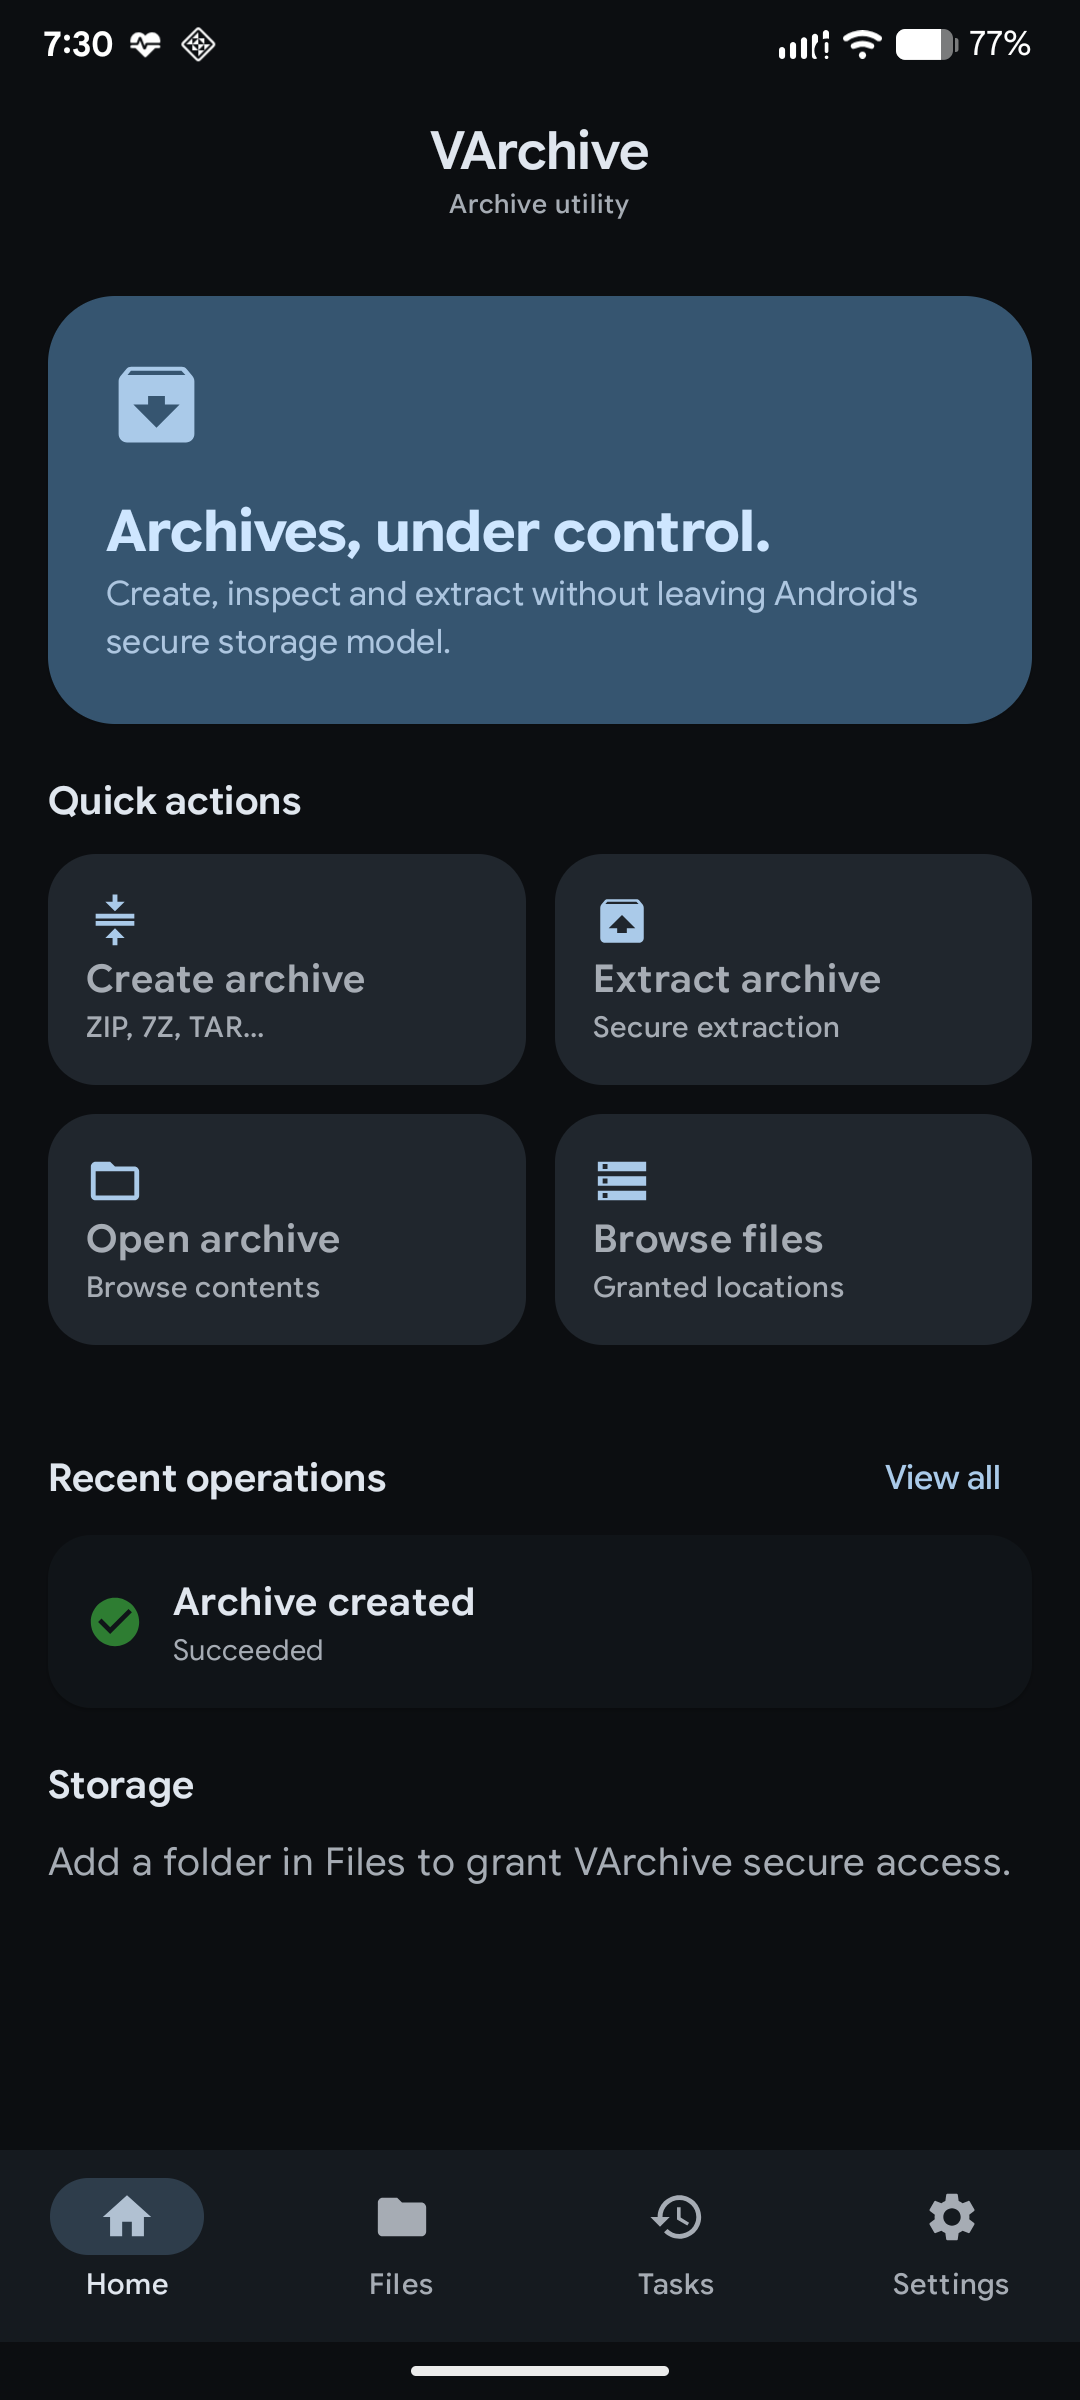
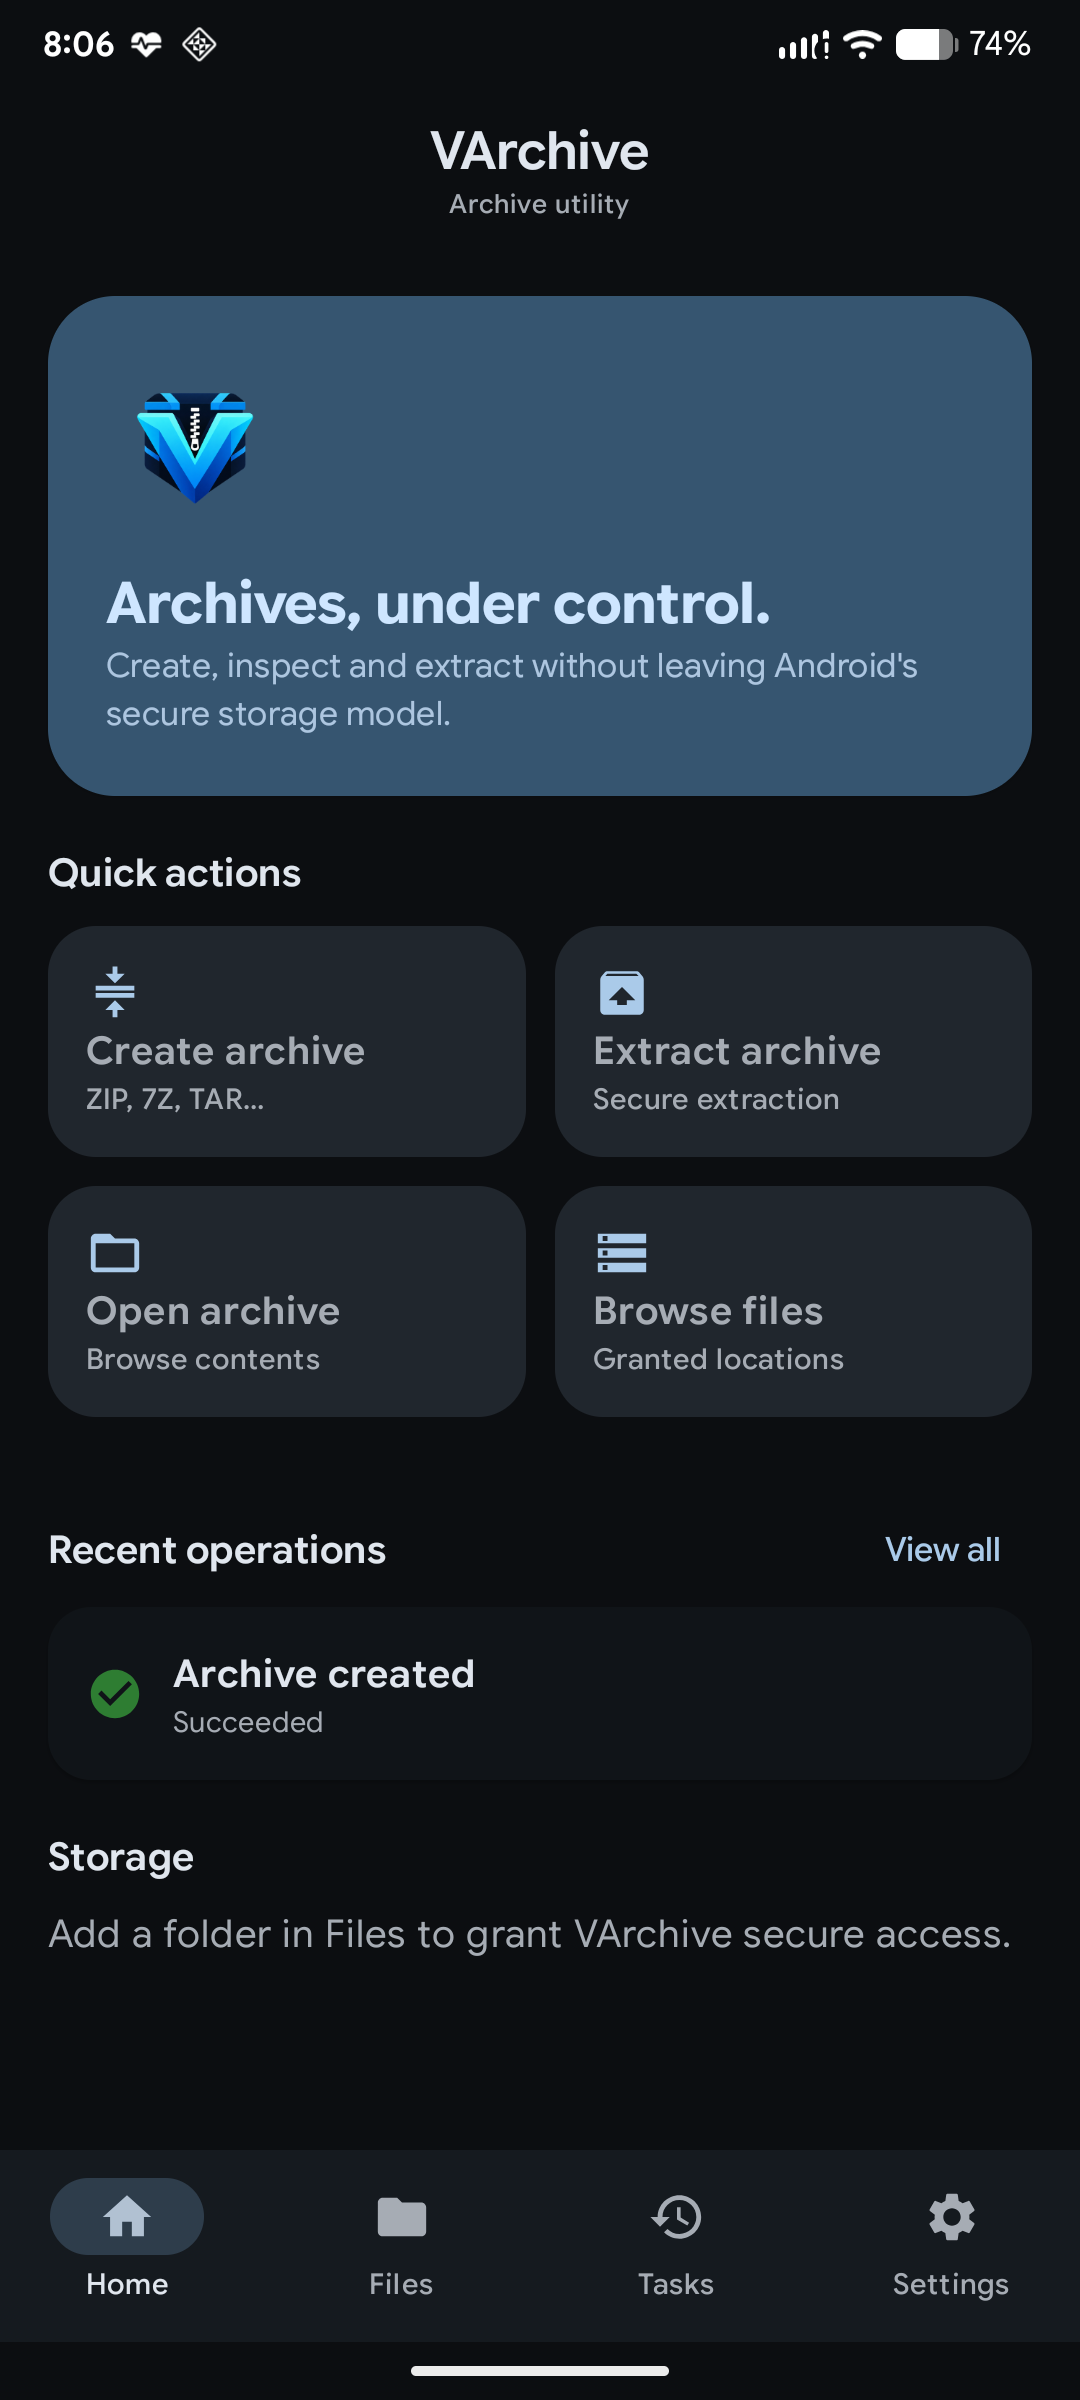
Release VArchive v1.0.1 Stable branding

diff --git a/app/src/main/java/com/vikas/varchive/ui/VArchiveRoot.kt b/app/src/main/java/com/vikas/varchive/ui/VArchiveRoot.kt
@@ -10,6 +10,7 @@ import androidx.activity.compose.BackHandler
 import androidx.activity.compose.rememberLauncherForActivityResult
 import androidx.activity.result.contract.ActivityResultContracts
 import androidx.compose.animation.AnimatedContent
+import androidx.compose.foundation.Image
 import androidx.compose.foundation.ExperimentalFoundationApi
 import androidx.compose.foundation.background
 import androidx.compose.foundation.combinedClickable
@@ -120,6 +121,7 @@ import androidx.compose.ui.Modifier
 import androidx.compose.ui.graphics.Color
 import androidx.compose.ui.graphics.vector.ImageVector
 import androidx.compose.ui.platform.LocalContext
+import androidx.compose.ui.res.painterResource
 import androidx.compose.ui.semantics.contentDescription
 import androidx.compose.ui.semantics.semantics
 import androidx.compose.ui.text.font.FontWeight
@@ -131,6 +133,7 @@ import androidx.compose.ui.unit.dp
 import androidx.lifecycle.compose.collectAsStateWithLifecycle
 import androidx.work.WorkInfo
 import com.vikas.varchive.BuildConfig
+import com.vikas.varchive.R
 import com.vikas.varchive.archive.ArchiveEntry
 import com.vikas.varchive.archive.ArchiveFormat
 import com.vikas.varchive.archive.CompressionLevel
@@ -378,8 +381,12 @@ private fun HomeScreen(
                 shape = RoundedCornerShape(28.dp),
             ) {
                 Column(Modifier.padding(24.dp)) {
-                    Icon(Icons.Default.Archive, null, Modifier.size(42.dp), tint = MaterialTheme.colorScheme.primary)
-                    Spacer(Modifier.height(16.dp))
+                    Image(
+                        painter = painterResource(R.drawable.varchive_logo_display),
+                        contentDescription = "VArchive logo",
+                        modifier = Modifier.size(78.dp),
+                    )
+                    Spacer(Modifier.height(10.dp))
                     Text("Archives, under control.", style = MaterialTheme.typography.headlineSmall, fontWeight = FontWeight.Bold)
                     Text("Create, inspect and extract without leaving Android's secure storage model.", style = MaterialTheme.typography.bodyMedium, color = MaterialTheme.colorScheme.onPrimaryContainer.copy(alpha = .78f))
                 }
@@ -654,7 +661,13 @@ private fun SimpleSetting(title: String, subtitle: String, icon: ImageVector, on
 private fun AboutDialog(onDismiss: () -> Unit) {
     AlertDialog(
         onDismissRequest = onDismiss,
-        icon = { Icon(Icons.Default.Archive, null, Modifier.size(44.dp), tint = MaterialTheme.colorScheme.primary) },
+        icon = {
+            Image(
+                painter = painterResource(R.drawable.varchive_logo_display),
+                contentDescription = "VArchive logo",
+                modifier = Modifier.size(104.dp),
+            )
+        },
         title = { Text("VArchive") },
         text = {
             Column(horizontalAlignment = Alignment.CenterHorizontally, verticalArrangement = Arrangement.spacedBy(8.dp)) {
@@ -708,7 +721,7 @@ private fun LicensesDialog(onDismiss: () -> Unit) {
                 item { LicenseItem("XZ for Java 1.12", "0BSD") }
                 item { LicenseItem("zstd-jni 1.5.7-12", "BSD 2-Clause; bundled Zstandard is BSD 3-Clause or GPL-2.0") }
                 item { LicenseItem("Junrar 8.1.1", "UnRAR License; extraction only, RAR creation is prohibited and not implemented") }
-                item { Text("Full integration and limitation details are included in ARCHIVE_ENGINE.md.", style = MaterialTheme.typography.bodySmall, color = MaterialTheme.colorScheme.onSurfaceVariant) }
+                item { Text("Full engine and license details are included in ARCHIVE_ENGINE.md.", style = MaterialTheme.typography.bodySmall, color = MaterialTheme.colorScheme.onSurfaceVariant) }
             }
         },
         confirmButton = { TextButton(onClick = onDismiss) { Text("Done") } },

diff --git a/README.md b/README.md
@@ -1,5 +1,7 @@
 <div align="center">
 
+<img src="docs/images/varchive-logo.png" alt="VArchive logo" width="170" />
+
 # VArchive
 
 ### A modern, secure and powerful archive manager for Android.
@@ -37,7 +39,7 @@ VArchive brings browsing, creation, extraction, and integrity testing into one f
   <img src="docs/images/settings.png" alt="VArchive settings screen" width="30%" />
 </p>
 
-Screenshots are captured from the real v1.0.0 application on Android 16 using neutral test data.
+Screenshots are captured from the real v1.0.1 application on Android 16 using neutral test data.
 
 ## Supported formats
 
@@ -107,7 +109,7 @@ Download the latest installable APK from [GitHub Releases](https://github.com/vi
 - Current packaged ABI: **arm64-v8a**
 - Package name: **`com.vikas.varchive`**
 
-The v1.0.0 release APK is signed with an Android development key for testing and direct installation. It is not production/store signed. Verify the accompanying `.sha256` file before installing.
+**VArchive v1.0.1 Stable** is the official signed GitHub release and is ready for direct installation and everyday use. Verify the accompanying `.sha256` file before installing.
 
 ## Build from source
 
@@ -131,7 +133,7 @@ cd VArchive
 .\gradlew.bat testDebugUnitTest lintDebug assembleDebug
 ```
 
-Build outputs are written beneath `app/build/outputs/apk/`. A release build can be created with `./gradlew assembleRelease`; the checked-in configuration uses the development key and contains no private signing material.
+Build outputs are written beneath `app/build/outputs/apk/`. A release build can be created with `./gradlew assembleRelease`; the repository contains no private signing material.
 
 ## Tech stack
 
@@ -148,7 +150,7 @@ Dependency roles and license boundaries are documented in [THIRD_PARTY_NOTICES.m
 
 ## Testing
 
-Current v1.0.0 validation includes:
+Current v1.0.1 validation includes:
 
 - **19 JVM unit/integration tests** covering detection, options, path safety, bomb limits, encryption, corruption, and archive round trips;
 - **4 Android instrumentation tests** covering core UI, Android-runtime codec round trips, encrypted/corrupt archive handling, and RAR5 extraction;
@@ -163,17 +165,7 @@ Run the connected-device suite with:
 ./gradlew connectedDebugAndroidTest
 ```
 
-The detailed v1.0.0 evidence is available in [QA_REPORT.md](QA_REPORT.md).
-
-## Known limitations
-
-- No in-place archive entry update or deletion.
-- No entry preview/open or selected-entry extraction; extraction currently processes the whole archive.
-- No multipart extraction, split-volume creation, or solid-archive configuration.
-- No resumable pause; cancellation is cooperative and real.
-- Empty source directories are not emitted when compressing a folder.
-- Password-protected queued jobs must be retried if Android kills the application process.
-- Current release signing is for development/testing, not store distribution.
+The detailed v1.0.1 evidence is available in [QA_REPORT.md](QA_REPORT.md).
 
 ## Open source licenses
 

diff --git a/QA_REPORT.md b/QA_REPORT.md
@@ -1,4 +1,4 @@
-# VArchive 1.0.0 QA report
+# VArchive 1.0.1 QA report
 
 **Date:** 2026-10-02 (Asia/Calcutta)  
 **Device:** Xiaomi/Poco 22101320I (Poco X5 Pro 5G)  
@@ -19,6 +19,7 @@
 | Release install | PASS |
 | Release cold launch | PASS |
 | Post-SAF-permission cold launch | PASS |
+| Adaptive launcher icon and in-app branding | PASS |
 | Filtered AndroidRuntime/WorkManager error log | Clean |
 
 Commands used:
@@ -35,6 +36,7 @@ adb install -r app\build\outputs\apk\release\app-release.apk
 The connected-device suite executed against the actual Android runtime:
 
 - app launch, Home, Files, Settings, About, and creator branding;
+- full-color adaptive launcher icon, splash resource, Home logo, About logo, and v1.0.1 version presentation;
 - ZIP, 7Z, TAR, TAR.GZ, TAR.BZ2, TAR.XZ, TAR.ZST, GZIP, BZIP2, XZ, and ZSTD create/test/extract round trips;
 - AES-256 ZIP correct-password extraction and wrong-password domain failure;
 - corrupt ZIP rejection without process crash;
@@ -68,7 +70,7 @@ Using `/sdcard/Download/VArchiveTest/` only:
 
 | Artifact | Size | SHA-256 |
 |---|---:|---|
[4 lines of base64/hex data omitted]
 
-The release is R8/resource-shrunk, arm64-v8a-only, and signed with the local Android development key. It is installable for testing but must be signed with a protected production key before store distribution.
+The release is R8/resource-shrunk, arm64-v8a-only, signature-verified, and directly installable as the official VArchive Stable APK.

diff --git a/docs/release-notes-v1.0.1.md b/docs/release-notes-v1.0.1.md
@@ -1,0 +1,32 @@
+# VArchive v1.0.1 Stable
+
+VArchive v1.0.1 Stable introduces a complete visual identity refresh while preserving the tested archive engine and security boundaries from v1.0.0. The signed APK is ready for direct installation and everyday use.
+
+## What's new
+
+- New original VArchive brand mark combining a geometric V, zipper, and secure archive container.
+- New full-color Android adaptive launcher icon.
+- New monochrome themed icon for supported Android launchers.
+- Branded Android splash screen, Home screen, and About dialog.
+- Updated GitHub README hero and real-device screenshots.
+
+## Archive capabilities
+
+- Create ZIP/ZIP64, 7Z, TAR, TGZ, TBZ2, TXZ, TAR.ZST, GZIP, BZIP2, XZ, and ZSTD archives.
+- Browse, test, and extract those formats plus RAR/RAR5, AR/DEB outer containers, and CPIO.
+- Create and extract AES-256 encrypted ZIP archives.
+- Use Android's Storage Access Framework without broad storage permission.
+
+## Validation
+
+- JVM unit/integration tests passed.
+- Connected Android instrumentation tests passed.
+- Android lint completed with zero errors.
+- R8/resource-shrunk release build completed successfully.
+- Signed release installation, cold start, launcher icon, splash, Home branding, and crash logs were checked on a real Android device.
+
+## APK verification
+
[1 lines of base64/hex data omitted]
+
+The same value is provided as a separate `.sha256` release asset beside the APK.

diff --git a/ARCHIVE_ENGINE.md b/ARCHIVE_ENGINE.md
@@ -39,12 +39,3 @@ The private extraction directory is removed on completion, failure, or cancellat
 ## Native safety
 
 Only zstd-jni contributes native code in this build. Its Android AAR owns JNI loading and resource lifetime. VArchive does not pass native pointers across its architecture boundary. The initial APK intentionally packages only `arm64-v8a`, matching the verified device. Commons Compress, Zip4j, XZ, and Junrar execute as managed Java/Kotlin code.
-
-## Limitations
-
-- No RAR writer and no claim of RAR creation.
-- No ISO, CAB, WIM, XAR, LZH/LHA, or RPM payload backend.
-- No in-place archive mutation.
-- No split-volume writer or reliable SAF sibling-volume discovery.
-- No fake pause: cancellation is supported, pause is omitted.
-- Method compatibility is bounded by the versions above; unsupported or corrupt methods surface a domain error rather than a raw stack trace.

diff --git a/SECURITY.md b/SECURITY.md
@@ -10,7 +10,7 @@ Include the affected VArchive version, Android version, archive format, minimal 
 
 Useful reports include archive path traversal, unsafe link handling, archive-bomb control bypasses, unintended file overwrite, password persistence, malformed-archive crashes, and Storage Access Framework boundary violations.
 
-VArchive is a local archive utility and does not request the Android internet permission. Reports about unsupported formats or documented limitations are not security vulnerabilities unless they cross a stated trust boundary.
+VArchive is a local archive utility and does not request the Android internet permission. Unsupported-format reports are not security vulnerabilities unless they cross a stated trust boundary.
 
 ## Supported version
 

diff --git a/docs/release-notes-v1.0.0.md b/docs/release-notes-v1.0.0.md
@@ -27,13 +27,6 @@ First public release of VArchive, a focused archive manager for Android.
 - Debug and R8/resource-shrunk release builds completed successfully.
 - SAF create, browse, test, and extract flows were verified on Android 16.
 
-## Known limitations
-
-- RAR/RAR5 is extraction-only.
-- No in-place entry mutation, selected-entry extraction, multipart extraction, pause/resume, split volumes, or solid-archive configuration.
-- Password-protected jobs must be retried after application process death.
-- The attached APK is signed with an Android development key for testing. It is not production/store signed.
-
 ## APK verification
 
[1 lines of base64/hex data omitted]
